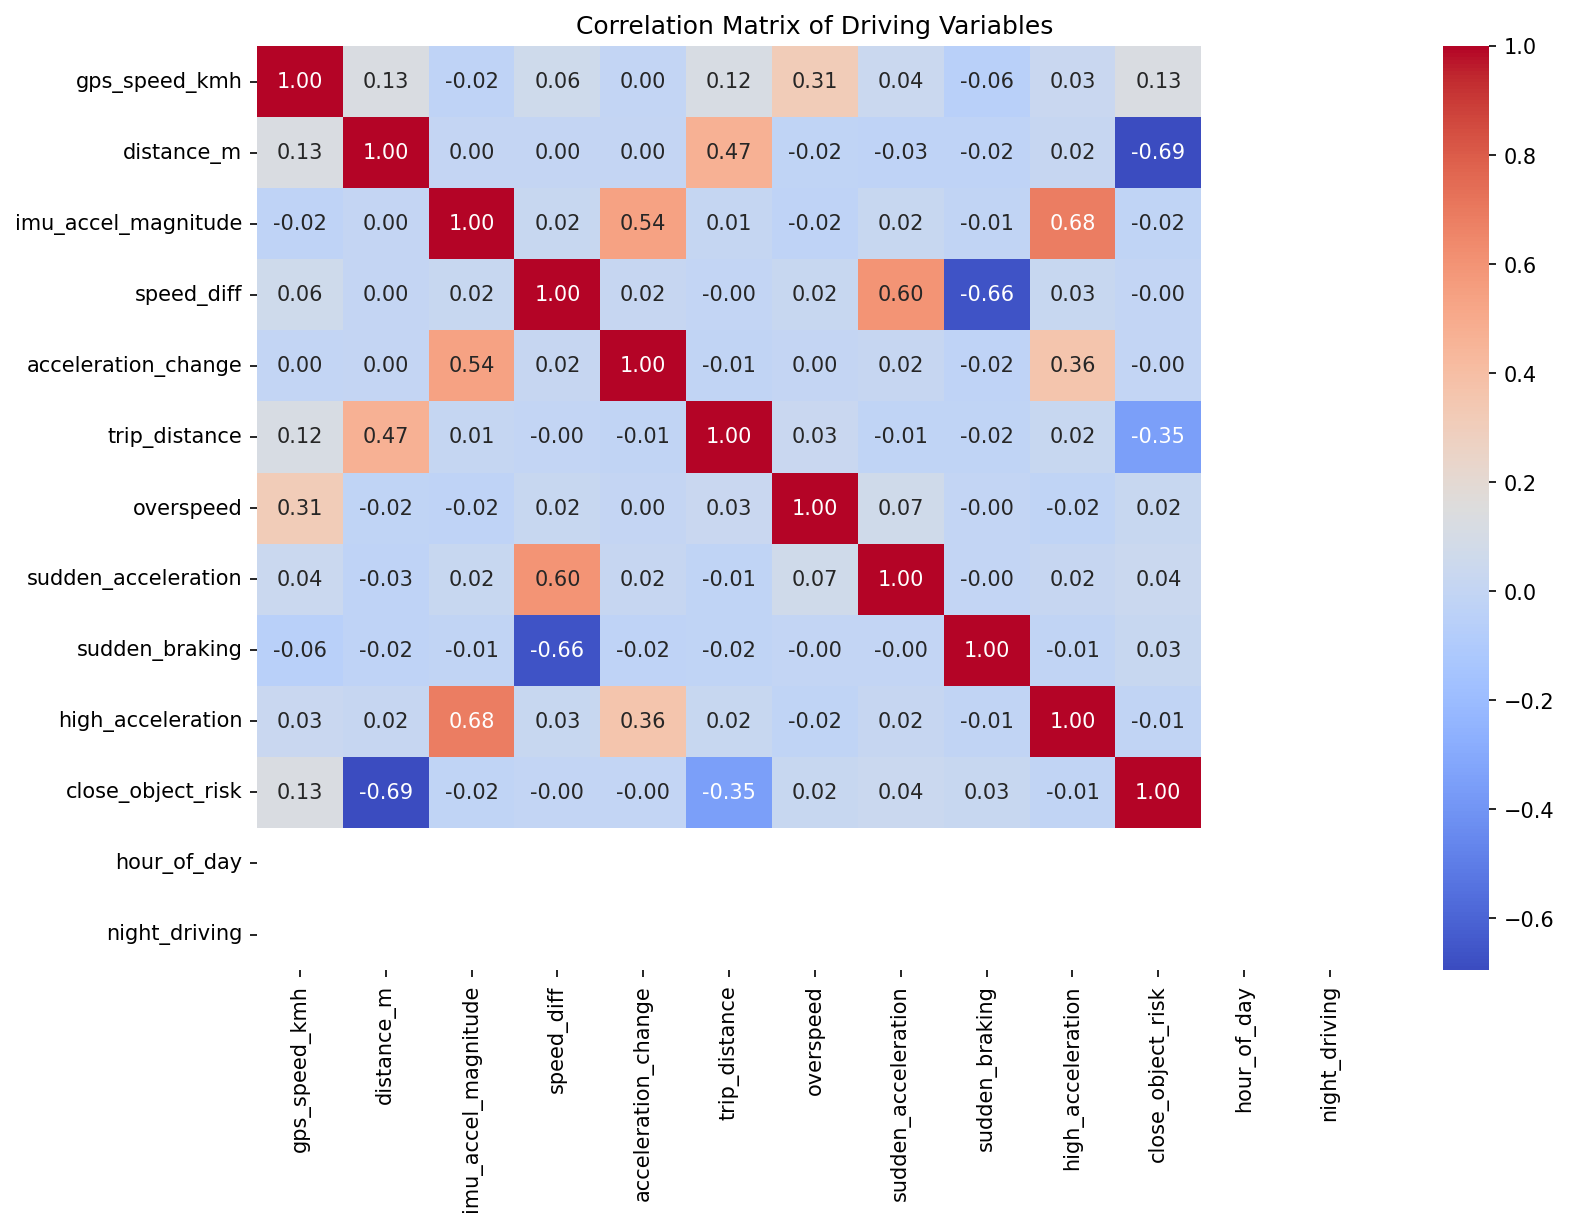
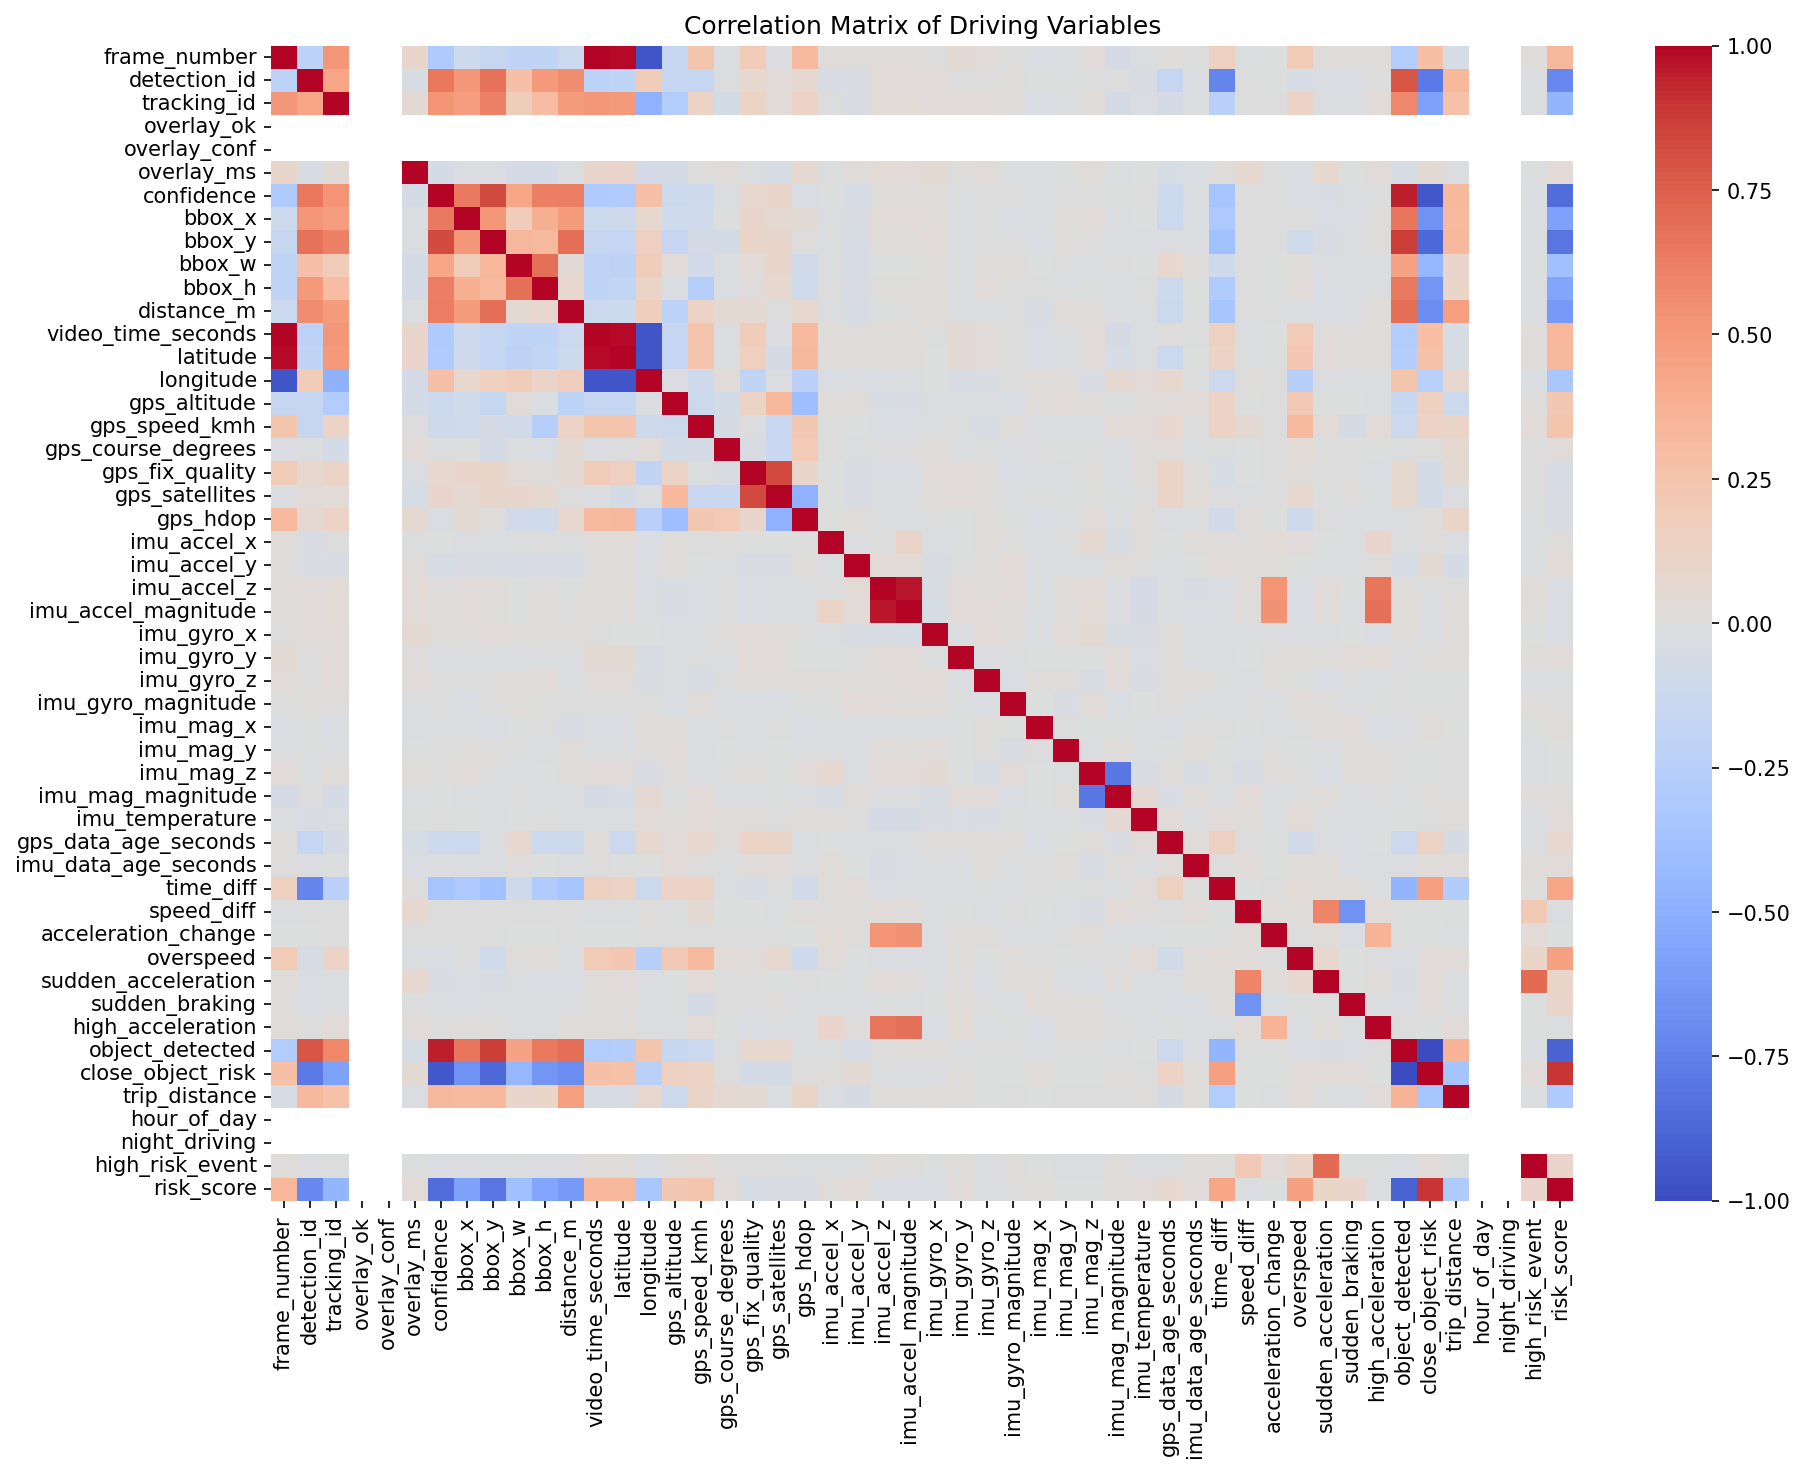
Correlation Analysis is being completed

diff --git a/analytics/correlation.py b/analytics/correlation.py
@@ -1,0 +1,137 @@
+import pandas as pd
+import seaborn as sns
+import matplotlib.pyplot as plt
+import os
+
+# ---------------------------------------------------
+# LOAD DATA
+# ---------------------------------------------------
+
+DATA_PATH = "data/processed/pivitel_feature_dataset.csv"
+df = pd.read_csv(DATA_PATH)
+
+print("Dataset Loaded:", df.shape)
+
+# Create output folder
+os.makedirs("outputs/analytics/correlation", exist_ok=True)
+
+# ---------------------------------------------------
+# STEP 1: FIX BOOLEAN VALUES (VERY IMPORTANT)
+# ---------------------------------------------------
+
+# Convert all True/False → 1/0
+df = df.replace({True: 1, False: 0})
+
+# ---------------------------------------------------
+# STEP 2: CREATE TARGET VARIABLE (CORRECTLY)
+# ---------------------------------------------------
+
+# Safety check (ensure columns exist)
+required_cols = ["overspeed", "sudden_braking", "sudden_acceleration", "close_object_risk"]
+
+for col in required_cols:
+    if col not in df.columns:
+        raise ValueError(f"Missing column: {col}")
+
+# Create risk score
+df["risk_score"] = (
+    0.3 * df["overspeed"] +
+    0.3 * df["sudden_braking"] +
+    0.2 * df["sudden_acceleration"] +
+    0.2 * df["close_object_risk"]
+)
+
+# Create target (0/1, NOT True/False)
+df["high_risk_event"] = (df["risk_score"] > 0.5).astype(int)
+
+print("\nTarget Distribution:\n", df["high_risk_event"].value_counts())
+
+# ---------------------------------------------------
+# STEP 3: FIX TIME FEATURES (IF MISSING)
+# ---------------------------------------------------
+
+if "timestamp" in df.columns:
+    df["timestamp"] = pd.to_datetime(df["timestamp"], errors="coerce")
+
+    if "hour_of_day" not in df.columns:
+        df["hour_of_day"] = df["timestamp"].dt.hour
+
+    if "night_driving" not in df.columns:
+        df["night_driving"] = (
+            (df["hour_of_day"] >= 20) | (df["hour_of_day"] <= 6)
+        ).astype(int)
+
+# ---------------------------------------------------
+# STEP 4: SELECT NUMERIC FEATURES ONLY
+# ---------------------------------------------------
+
+df_numeric = df.select_dtypes(include=["number"])
+
+# Drop columns with all NaN
+df_numeric = df_numeric.dropna(axis=1, how="all")
+
+# Fill remaining NaN
+df_numeric = df_numeric.fillna(0)
+
+# ---------------------------------------------------
+# STEP 5: CORRELATION MATRIX
+# ---------------------------------------------------
+
+corr_matrix = df_numeric.corr()
+
+print("\nCorrelation Matrix Created")
+
+# Save full matrix
+corr_matrix.to_csv("outputs/analytics/correlation/correlation_matrix.csv")
+
+# ---------------------------------------------------
+# STEP 6: HEATMAP
+# ---------------------------------------------------
+
+plt.figure(figsize=(14, 10))
+sns.heatmap(corr_matrix, cmap="coolwarm")
+
+plt.title("Correlation Matrix of Driving Variables")
+
+plt.savefig(
+    "outputs/analytics/correlation/correlation_heatmap.png",
+    dpi=150,
+    bbox_inches="tight"
+)
+plt.close()
+
+# ---------------------------------------------------
+# STEP 7: TARGET CORRELATION (IMPORTANT OUTPUT)
+# ---------------------------------------------------
+
+target_corr = corr_matrix["high_risk_event"].sort_values(ascending=False)
+
+print("\nCorrelation with High Risk Event:\n")
+print(target_corr)
+
+target_corr.to_csv("outputs/analytics/correlation/target_correlation.csv")
+
+# ---------------------------------------------------
+# STEP 8: TOP FEATURE RELATIONSHIPS
+# ---------------------------------------------------
+
+corr_pairs = corr_matrix.abs().unstack()
+
+# Remove self correlation
+corr_pairs = corr_pairs[corr_pairs < 1]
+
+# Sort
+corr_pairs = corr_pairs.sort_values(ascending=False)
+
+top_corr = corr_pairs.head(20)
+
+print("\nTop Correlations:\n")
+print(top_corr)
+
+top_corr.to_csv("outputs/analytics/correlation/top_correlations.csv")
+
+# ---------------------------------------------------
+# DONE
+# ---------------------------------------------------
+
+print("\nCorrelation analysis completed successfully!")